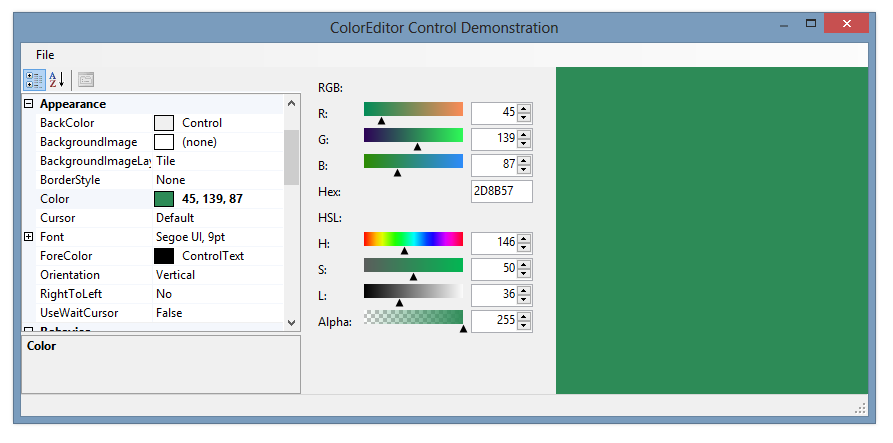
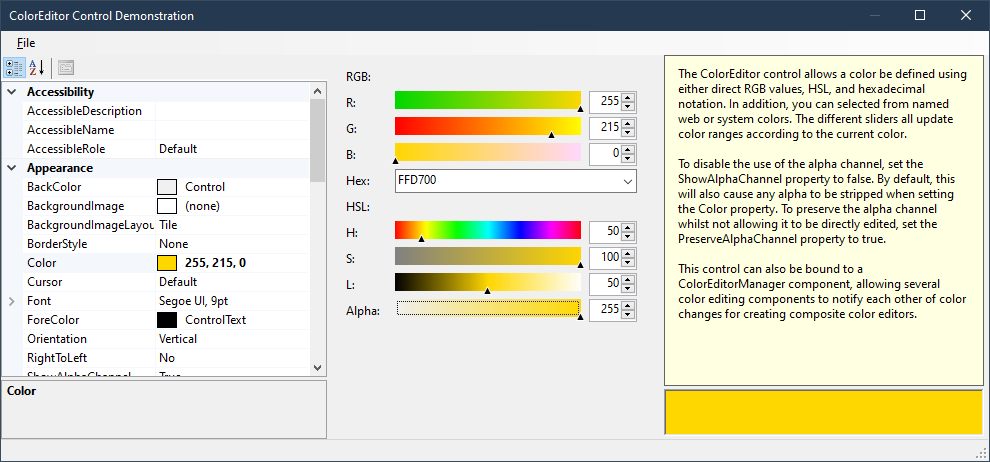
Docs updates

diff --git a/Cyotek.Windows.Forms.ColorPicker.Demo/ColorEditorDemoForm.Designer.cs b/Cyotek.Windows.Forms.ColorPicker.Demo/ColorEditorDemoForm.Designer.cs
@@ -35,7 +35,7 @@ namespace Cyotek.Windows.Forms.ColorPicker.Demo
       this.propertyGrid = new System.Windows.Forms.PropertyGrid();
       this.colorEditor = new Cyotek.Windows.Forms.ColorEditor();
       this.optionsSplitContainer = new System.Windows.Forms.SplitContainer();
-      this.colorPreviewBox1 = new Cyotek.Windows.Forms.ColorPicker.Demo.ColorPreviewBox();
+      this.colorPreviewBox = new Cyotek.Windows.Forms.ColorPicker.Demo.ColorPreviewBox();
       this.demoLabel = new System.Windows.Forms.Label();
       this.menuStrip = new System.Windows.Forms.MenuStrip();
       this.fileToolStripMenuItem = new System.Windows.Forms.ToolStripMenuItem();
@@ -101,7 +101,7 @@ namespace Cyotek.Windows.Forms.ColorPicker.Demo
       this.colorEditor.Location = new System.Drawing.Point(0, 0);
       this.colorEditor.Name = "colorEditor";
       this.colorEditor.Padding = new System.Windows.Forms.Padding(10);
-      this.colorEditor.Size = new System.Drawing.Size(326, 384);
+      this.colorEditor.Size = new System.Drawing.Size(324, 384);
       this.colorEditor.TabIndex = 0;
       this.colorEditor.ColorChanged += new System.EventHandler(this.colorEditor_ColorChanged);
       // 
@@ -118,35 +118,37 @@ namespace Cyotek.Windows.Forms.ColorPicker.Demo
       // 
       // optionsSplitContainer.Panel2
       // 
-      this.optionsSplitContainer.Panel2.Controls.Add(this.colorPreviewBox1);
+      this.optionsSplitContainer.Panel2.Controls.Add(this.colorPreviewBox);
       this.optionsSplitContainer.Panel2.Controls.Add(this.demoLabel);
       this.optionsSplitContainer.Size = new System.Drawing.Size(656, 384);
-      this.optionsSplitContainer.SplitterDistance = 326;
+      this.optionsSplitContainer.SplitterDistance = 324;
       this.optionsSplitContainer.SplitterWidth = 6;
       this.optionsSplitContainer.TabIndex = 0;
       // 
-      // colorPreviewBox1
+      // colorPreviewBox
       // 
-      this.colorPreviewBox1.Anchor = ((System.Windows.Forms.AnchorStyles)((System.Windows.Forms.AnchorStyles.Bottom | System.Windows.Forms.AnchorStyles.Left)));
-      this.colorPreviewBox1.Color = System.Drawing.Color.Empty;
-      this.colorPreviewBox1.Location = new System.Drawing.Point(16, 334);
-      this.colorPreviewBox1.Name = "colorPreviewBox1";
-      this.colorPreviewBox1.Size = new System.Drawing.Size(75, 47);
-      this.colorPreviewBox1.TabIndex = 1;
-      this.colorPreviewBox1.Text = "colorPreviewBox";
+      this.colorPreviewBox.Anchor = ((System.Windows.Forms.AnchorStyles)(((System.Windows.Forms.AnchorStyles.Bottom | System.Windows.Forms.AnchorStyles.Left) 
+            | System.Windows.Forms.AnchorStyles.Right)));
+      this.colorPreviewBox.Color = System.Drawing.Color.Empty;
+      this.colorPreviewBox.Location = new System.Drawing.Point(3, 334);
+      this.colorPreviewBox.Name = "colorPreviewBox";
+      this.colorPreviewBox.Size = new System.Drawing.Size(320, 47);
+      this.colorPreviewBox.TabIndex = 1;
+      this.colorPreviewBox.Text = "colorPreviewBox";
       // 
       // demoLabel
       // 
-      this.demoLabel.Anchor = ((System.Windows.Forms.AnchorStyles)(((System.Windows.Forms.AnchorStyles.Top | System.Windows.Forms.AnchorStyles.Left) 
+      this.demoLabel.Anchor = ((System.Windows.Forms.AnchorStyles)((((System.Windows.Forms.AnchorStyles.Top | System.Windows.Forms.AnchorStyles.Bottom) 
+            | System.Windows.Forms.AnchorStyles.Left) 
             | System.Windows.Forms.AnchorStyles.Right)));
       this.demoLabel.AutoEllipsis = true;
       this.demoLabel.BackColor = System.Drawing.SystemColors.Info;
       this.demoLabel.BorderStyle = System.Windows.Forms.BorderStyle.FixedSingle;
       this.demoLabel.ForeColor = System.Drawing.SystemColors.InfoText;
-      this.demoLabel.Location = new System.Drawing.Point(16, 13);
+      this.demoLabel.Location = new System.Drawing.Point(3, 0);
       this.demoLabel.Name = "demoLabel";
       this.demoLabel.Padding = new System.Windows.Forms.Padding(10);
-      this.demoLabel.Size = new System.Drawing.Size(284, 250);
+      this.demoLabel.Size = new System.Drawing.Size(320, 331);
       this.demoLabel.TabIndex = 0;
       this.demoLabel.Text = resources.GetString("demoLabel.Text");
       // 
@@ -216,6 +218,6 @@ namespace Cyotek.Windows.Forms.ColorPicker.Demo
     private System.Windows.Forms.ToolStripMenuItem fileToolStripMenuItem;
     private System.Windows.Forms.ToolStripMenuItem closeToolStripMenuItem;
     private System.Windows.Forms.Label demoLabel;
-    private ColorPreviewBox colorPreviewBox1;
+    private ColorPreviewBox colorPreviewBox;
   }
 }

diff --git a/Cyotek.Windows.Forms.ColorPicker.Demo/ColorEditorDemoForm.cs b/Cyotek.Windows.Forms.ColorPicker.Demo/ColorEditorDemoForm.cs
@@ -38,7 +38,7 @@ namespace Cyotek.Windows.Forms.ColorPicker.Demo
 
     private void colorEditor_ColorChanged(object sender, EventArgs e)
     {
-      colorPreviewBox1.Color = colorEditor.Color;
+      colorPreviewBox.Color = colorEditor.Color;
 
       propertyGrid.Refresh();
     }

diff --git a/README.md b/README.md
@@ -1,7 +1,6 @@
 # Cyotek.Windows.Forms.ColorPickers Control Collection
 
-[![Build status][cibadge]][ci]
-[![NuGet][nugetbadge]][nuget]
+[![Build status][cibadge]][ci] [![NuGet][nugetbadge]][nuget]
 
 The **Cyotek.Windows.Forms.ColorPickers** library contains a
 series of custom controls and utility classes for Windows Forms
@@ -76,7 +75,12 @@ with a custom image.
 ![ColorEditor control demonstration][coloreditorscreen]
 
 This control allows the editing of a RGB or HSL colour via a
-standard interface.
+standard interface. You can also enter colours via 6 or 8
+character hexadecimal notation, or choose from named web and
+system colors.
+
+Use of the alpha channel can be configured via the
+`ShowAlphaChannel` and `PreserveAlphaChannel` properties.
 
 ### ScreenColorPicker Control
 
